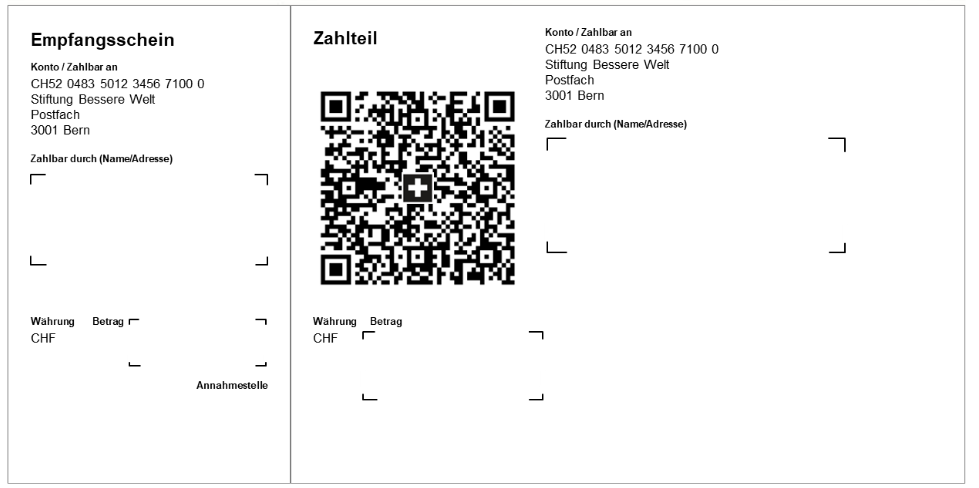
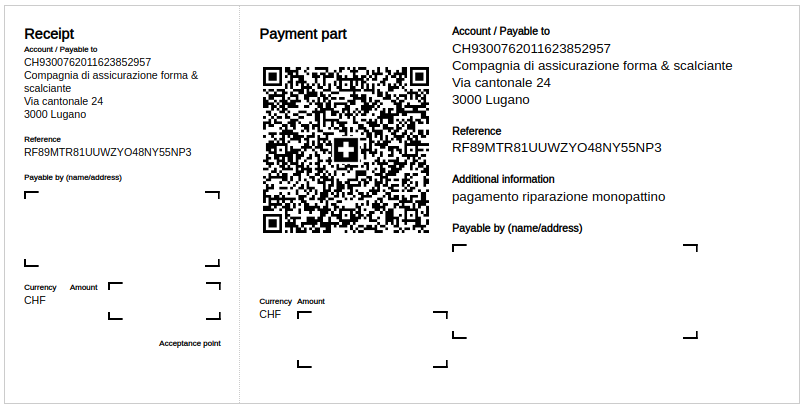
Add empty fields

diff --git a/lib/qr-bills/qr-html-layout.rb b/lib/qr-bills/qr-html-layout.rb
@@ -45,10 +45,16 @@ module QRHTMLLayout
         layout += "    <div><br/></div>\n"
       end
 
-      layout += "    <div class=\"subtitle payable_by\">#{I18n.t("qrbills.payable_by").capitalize}</div>\n"
-      layout += "    <div class=\"payable_by\">\n"
-      layout +=        render_address(params[:bill_params][:debtor][:address])
-      layout += "    </div>\n"
+      if params[:bill_params][:debtor].nil?
+        layout += "    <div class=\"subtitle payable_by\">#{I18n.t("qrbills.payable_by_name_addr").capitalize}</div>\n"
+        layout += "    <div class=\"payable_by empty\">\n"
+        layout += "    </div>\n"
+      else
+        layout += "    <div class=\"subtitle payable_by\">#{I18n.t("qrbills.payable_by").capitalize}</div>\n"
+        layout += "    <div class=\"payable_by\">\n"
+        layout += render_address(params[:bill_params][:debtor][:address])
+        layout += "    </div>\n"
+      end
 
       layout += "    <div class=\"amount\">\n"
       layout += "      <div class=\"currency\">\n"
@@ -56,9 +62,15 @@ module QRHTMLLayout
       layout += "        #{params[:bill_params][:currency]}<br/>\n"
       layout += "      </div>\n"
 
-      layout += "      <div class=\"amount_value\">\n"
-      layout += "        <span class=\"amount_header subtitle\">#{I18n.t("qrbills.amount").capitalize}</span><br/>\n"
-      layout += "        #{format('%.2f', params[:bill_params][:amount])}<br/>\n"
+      if params[:bill_params][:amount].nil?
+        layout += "      <div class=\"amount_value row\">\n"
+        layout += "        <span class=\"amount_header subtitle\">#{I18n.t("qrbills.amount").capitalize}</span><br/>\n"
+        layout += "        <div class=\"amount empty\"></div>\n"
+      else
+        layout += "      <div class=\"amount_value\">\n"
+        layout += "        <span class=\"amount_header subtitle\">#{I18n.t("qrbills.amount").capitalize}</span><br/>\n"
+        layout += "        #{format("%.2f", params[:bill_params][:amount])}<br/>\n"
+      end
       layout += "      </div>\n"
       layout += "    </div>\n"
 
@@ -77,9 +89,13 @@ module QRHTMLLayout
       layout += "          #{params[:bill_params][:currency]}<br/>\n"
       layout += "        </div>\n"
 
-      layout += "        <div class=\"amount_value\">\n"
-      layout += "          <span class=\"amount_header subtitle\">#{I18n.t("qrbills.amount").capitalize}</span><br/>\n"
-      layout += "          #{format('%.2f',params[:bill_params][:amount])}<br/>\n"
+      layout += "      <div class=\"amount_value\">\n"
+      layout += "        <span class=\"amount_header subtitle\">#{I18n.t("qrbills.amount").capitalize}</span><br/>\n"
+      if params[:bill_params][:amount].nil?
+        layout += "        <div class=\"amount empty\"></div>\n"
+      else
+        layout += "        #{format("%.2f", params[:bill_params][:amount])}<br/>\n"
+      end
       layout += "        </div>\n"
       layout += "      </div>\n"
 
@@ -119,10 +135,16 @@ module QRHTMLLayout
         layout += "    <div><br/></div>\n"
       end
 
-      layout += "    <div class=\"subtitle payable_by\">#{I18n.t("qrbills.payable_by").capitalize}</div>\n"
-      layout += "      <div class=\"payable_by\">\n"
-      layout +=          render_address(params[:bill_params][:debtor][:address])
-      layout += "      </div>\n"
+      if params[:bill_params][:debtor].nil?
+        layout += "    <div class=\"subtitle payable_by\">#{I18n.t("qrbills.payable_by_name_addr").capitalize}</div>\n"
+        layout += "    <div class=\"payable_by empty\">\n"
+        layout += "    </div>\n"
+      else
+        layout += "    <div class=\"subtitle payable_by\">#{I18n.t("qrbills.payable_by").capitalize}</div>\n"
+        layout += "      <div class=\"payable_by\">\n"
+        layout += render_address(params[:bill_params][:debtor][:address])
+        layout += "      </div>\n"
+      end
       layout += "    </div>\n"
       layout += "  </div>\n"
       layout += "</div>\n"
@@ -195,11 +217,22 @@ module QRHTMLLayout
 
       layout += "  .amount {\n"
       layout += "    margin-top: 15px;\n"
+      layout += "    display: flex;\n"
       layout += "  }\n"
 
+      layout += "  .payment_section .amount .subtitle {\n"
+      layout += "    font-weight: bold;\n"
+      layout += "    font-size: 6pt;\n"
+      layout += "    line-height: 9pt;\n"
+      layout += "  }      \n"
+
       layout += "  .amount .currency {\n"
-      layout += "    float: left;\n"
-      layout += "    margin-right: 15px;\n"
+      layout += "    margin-right: 4pt;\n"
+      layout += "    font-size: 8pt;\n"
+      layout += "  }\n"
+
+      layout += "  .receipt_section .amount .currency {\n"
+      layout += "    margin-right: 10pt;\n"
       layout += "  }\n"
 
       layout += "  .title {\n"
@@ -238,6 +271,50 @@ module QRHTMLLayout
 
       layout += "  .payment_section .finfo_header {\n"
       layout += "    font-weight: bold;\n"
+      layout += "  }      \n"
+
+      layout += "  .receipt_section .payable_by.empty {\n"
+      layout += "    width: 52mm;\n"
+      layout += "    height: 20mm;\n"
+      layout += "    margin-top: 2mm;\n"
+      layout += "  }      \n"
+
+      layout += "  .payment_section .payable_by.empty {\n"
+      layout += "    width: 65mm;\n"
+      layout += "    height: 25mm;\n"
+      layout += "    margin-top: 2mm;\n"
+      layout += "  }      \n"
+
+      layout += "  .receipt_section .amount.empty {\n"
+      layout += "    width: 30mm;\n"
+      layout += "    height: 10mm;\n"
+      layout += "    margin-top: 0;\n"
+      layout += "  }      \n"
+
+      layout += "  .payment_section .amount.empty {\n"
+      layout += "    width: 40mm;\n"
+      layout += "    height: 15mm;\n"
+      layout += "    margin-top: 1mm;\n"
+      layout += "  }      \n"
+
+      layout += "  .receipt_section .amount_value.row {\n"
+      layout += "    display: flex;\n"
+      layout += "    gap: 4pt;\n"
+      layout += "  }      \n"
+
+      layout += "  .empty {\n"
+      layout += "    background:\n"
+      layout += "      linear-gradient(to right, black 1.3pt, transparent 1.3pt) 0 0,\n"
+      layout += "      linear-gradient(to right, black 1.3pt, transparent 1.3pt) 0 100%,\n"
+      layout += "      linear-gradient(to left, black 1.3pt, transparent 1.3pt) 100% 0,\n"
+      layout += "      linear-gradient(to left, black 1.3pt, transparent 1.3pt) 100% 100%,\n"
+      layout += "      linear-gradient(to bottom, black 1.3pt, transparent 1.3pt) 0 0,\n"
+      layout += "      linear-gradient(to bottom, black 1.3pt, transparent 1.3pt) 100% 0,\n"
+      layout += "      linear-gradient(to top, black 1.3pt, transparent 1.3pt) 0 100%,\n"
+      layout += "      linear-gradient(to top, black 1.3pt, transparent 1.3pt) 100% 100%;\n"
+
+      layout += "    background-repeat: no-repeat;\n"
+      layout += "    background-size: 11pt 6pt;\n"
       layout += "  }      \n"
       layout += "</style>\n"
 

diff --git a/lib/qr-bills/qr-generator.rb b/lib/qr-bills/qr-generator.rb
@@ -139,15 +139,19 @@ module QRGenerator
     payload += "\r\n"
     payload += "\r\n"
     payload += "\r\n"
-    payload += "#{format('%.2f', bill_params[:amount])}\r\n"
+    if bill_params[:amount]
+      payload += "#{format("%.2f", bill_params[:amount])}\r\n"
+    else
+      payload += "\r\n"
+    end
     payload += "#{bill_params[:currency]}\r\n"
-    payload += "#{bill_params[:debtor][:address][:type]}\r\n"
-    payload += "#{bill_params[:debtor][:address][:name]}\r\n"
-    payload += "#{bill_params[:debtor][:address][:line1]}\r\n"
-    payload += "#{bill_params[:debtor][:address][:line2]}\r\n"
-    payload += "#{bill_params[:debtor][:address][:postal_code]}\r\n"
-    payload += "#{bill_params[:debtor][:address][:town]}\r\n"
-    payload += "#{bill_params[:debtor][:address][:country]}\r\n"
+    payload += "#{bill_params.dig(:debtor, :address, :type)}\r\n"
+    payload += "#{bill_params.dig(:debtor, :address, :name)}\r\n"
+    payload += "#{bill_params.dig(:debtor, :address, :line1)}\r\n"
+    payload += "#{bill_params.dig(:debtor, :address, :line2)}\r\n"
+    payload += "#{bill_params.dig(:debtor, :address, :postal_code)}\r\n"
+    payload += "#{bill_params.dig(:debtor, :address, :town)}\r\n"
+    payload += "#{bill_params.dig(:debtor, :address, :country)}\r\n"
     payload += "#{bill_params[:reference_type]}\r\n"
     payload += "#{bill_params[:reference].delete(' ')}\r\n"
     payload += "#{bill_params[:additionally_information]}\r\n"

diff --git a/spec/qr-html-layout_spec.rb b/spec/qr-html-layout_spec.rb
@@ -123,5 +123,18 @@ RSpec.describe "QRHTMLLayout" do
 
       expect(html_output).to include("12345.10")
     end
+
+    it "renders empty fields" do
+      @params[:bill_params][:debtor] = nil
+      @params[:bill_params][:amount] = nil
+
+      html_output = QRHTMLLayout.create(@params).to_s
+
+      IO.binwrite(filepath, html_output)
+      expect(File.exist?(filepath)).to be_truthy
+
+      expect(html_output).to include("payable_by empty").twice
+      expect(html_output).to include("amount empty").twice
+    end
   end
 end

diff --git a/README.md b/README.md
@@ -88,6 +88,17 @@ params[:bill_params][:reference_type]   = "NON" # fixed type for bill without re
 
 ![QR bill without reference](./imgs/qr_bill_without_reference.png)
 
+#### QR bill with empty fields
+
+No prefilled amount and/or debtor. When paying the missing values can either be written by hand on a print within the corner marks, or added to the rest of the scanned information in an e-banking application (the QR code still contains creditor, currency, etc.).
+
+```ruby
+params[:bill_params][:amount] = nil
+params[:bill_params][:debtor] = nil
+```
+
+![QR bill empty](./imgs/qr_bill_empty.png)
+
 ### Generate a QR-Bill
 
 ```ruby
@@ -142,8 +153,6 @@ bill = QRBills.generate(params)
 ## TODO
 
 * add other outputs formats
-* add "empty" QR-Bill
-![QR bill empty](./imgs/qr_bill_empty.png)
 
 ## License
 
